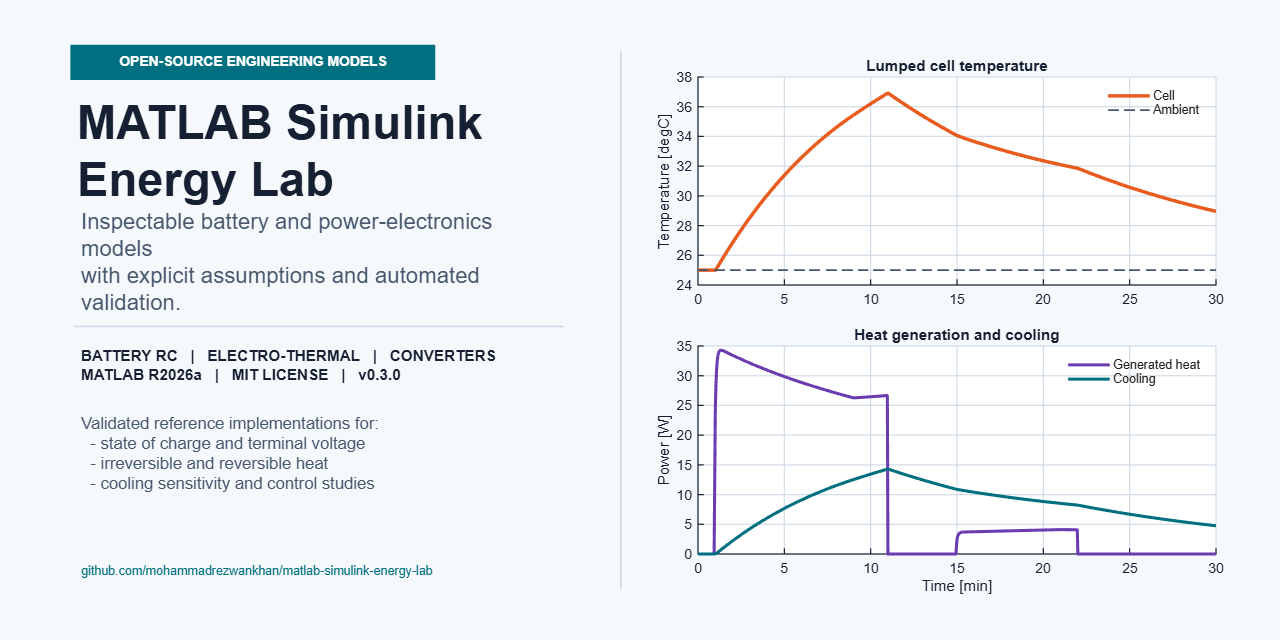
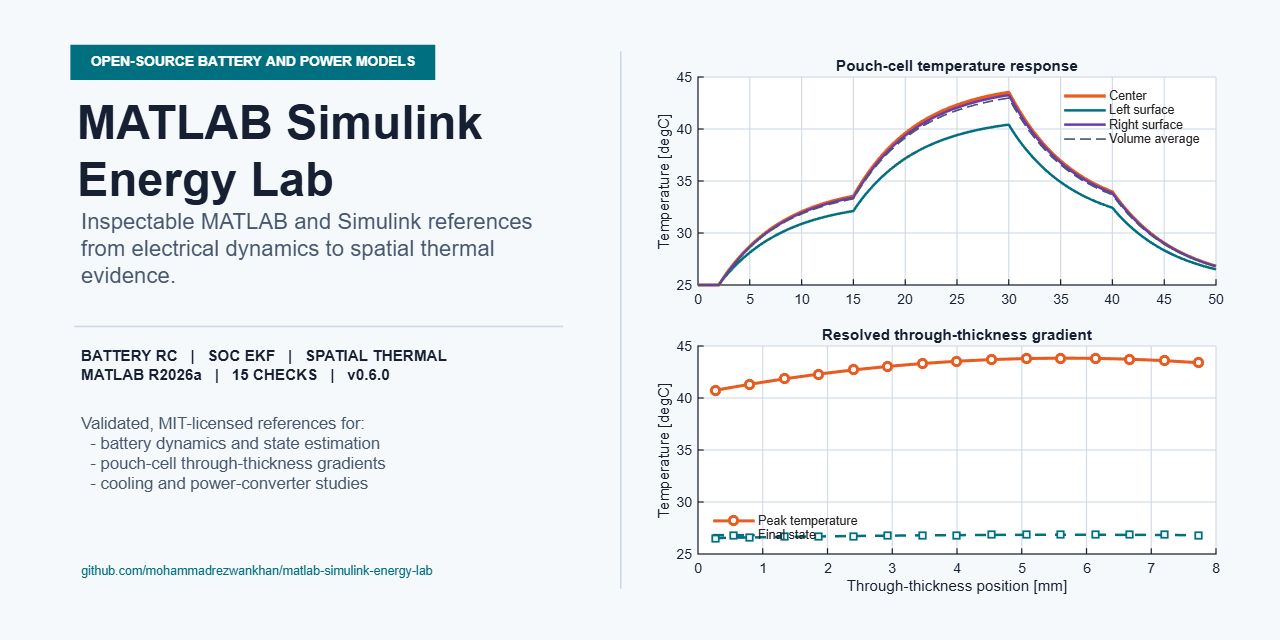
Refresh social preview for v0.6.0

diff --git a/assets/generate_social_preview.m b/assets/generate_social_preview.m
@@ -1,18 +1,18 @@
 %% Generate Repository Social Preview
-% Builds a 1280-by-640 social card from the validated electro-thermal model.
+% Builds a 1280-by-640 social card from the validated pouch-cell model.
 
 generate_preview();
 
 function generate_preview()
 repoRoot = fileparts(fileparts(mfilename('fullpath')));
-thermalModelDir = fullfile( ...
-    repoRoot, 'examples', 'battery-thermal-model');
-addpath(thermalModelDir);
-pathCleanup = onCleanup(@() rmpath(thermalModelDir));
+pouchModelDir = fullfile( ...
+    repoRoot, 'examples', 'pouch-cell-thermal-gradient');
+addpath(pouchModelDir);
+pathCleanup = onCleanup(@() rmpath(pouchModelDir));
 
-parameters = battery_thermal_default_parameters();
-profile = battery_thermal_default_profile();
-result = simulate_battery_thermal_model(profile, parameters, 1);
+parameters = pouch_cell_thermal_default_parameters();
+profile = pouch_cell_thermal_default_profile();
+result = simulate_pouch_cell_thermal_model(profile, parameters, 0.5);
 
 backgroundColor = [0.965, 0.976, 0.988];
 navyColor = [0.090, 0.125, 0.200];
@@ -33,7 +33,7 @@ figureHandle = figure( ...
 figureCleanup = onCleanup(@() close(figureHandle));
 
 annotation(figureHandle, 'textbox', [0.055, 0.875, 0.285, 0.055], ...
-    'String', 'OPEN-SOURCE ENGINEERING MODELS', ...
+    'String', 'OPEN-SOURCE BATTERY AND POWER MODELS', ...
     'FontName', 'Arial', ...
     'FontSize', 10, ...
     'FontWeight', 'bold', ...
@@ -57,8 +57,8 @@ annotation(figureHandle, 'textbox', [0.055, 0.700, 0.410, 0.155], ...
 
 annotation(figureHandle, 'textbox', [0.058, 0.550, 0.390, 0.130], ...
     'String', sprintf([ ...
-        'Inspectable battery and power-electronics models\n' ...
-        'with explicit assumptions and automated validation.']), ...
+        'Inspectable MATLAB and Simulink references\n' ...
+        'from electrical dynamics to spatial thermal evidence.']), ...
     'FontName', 'Arial', ...
     'FontSize', 16, ...
     'Color', mutedColor, ...
@@ -72,8 +72,8 @@ annotation(figureHandle, 'line', [0.058, 0.440], [0.490, 0.490], ...
 
 annotation(figureHandle, 'textbox', [0.058, 0.365, 0.390, 0.100], ...
     'String', sprintf([ ...
-        'BATTERY RC   |   ELECTRO-THERMAL   |   CONVERTERS\n' ...
-        'MATLAB R2026a   |   MIT LICENSE   |   v0.3.0']), ...
+        'BATTERY RC   |   SOC EKF   |   SPATIAL THERMAL\n' ...
+        'MATLAB R2026a   |   15 CHECKS   |   v0.6.0']), ...
     'FontName', 'Arial', ...
     'FontSize', 11, ...
     'FontWeight', 'bold', ...
@@ -84,10 +84,10 @@ annotation(figureHandle, 'textbox', [0.058, 0.365, 0.390, 0.100], ...
 
 annotation(figureHandle, 'textbox', [0.058, 0.195, 0.370, 0.165], ...
     'String', sprintf([ ...
-        'Validated reference implementations for:\n' ...
-        '  - state of charge and terminal voltage\n' ...
-        '  - irreversible and reversible heat\n' ...
-        '  - cooling sensitivity and control studies']), ...
+        'Validated, MIT-licensed references for:\n' ...
+        '  - battery dynamics and state estimation\n' ...
+        '  - pouch-cell through-thickness gradients\n' ...
+        '  - cooling and power-converter studies']), ...
     'FontName', 'Arial', ...
     'FontSize', 12, ...
     'Color', mutedColor, ...
@@ -112,45 +112,58 @@ time_min = result.time_s / 60;
 
 temperatureAxes = axes(figureHandle, ...
     'Position', [0.545, 0.555, 0.405, 0.325]);
-plot(temperatureAxes, time_min, result.cell_temp_C, ...
+plot(temperatureAxes, time_min, result.center_temperature_C, ...
     'Color', orangeColor, ...
-    'LineWidth', 2.5);
+    'LineWidth', 2.3);
 hold(temperatureAxes, 'on');
-plot(temperatureAxes, time_min, ...
-    parameters.ambient_temp_C * ones(size(time_min)), ...
+plot(temperatureAxes, time_min, result.left_surface_temperature_C, ...
+    'Color', tealColor, ...
+    'LineWidth', 1.8);
+plot(temperatureAxes, time_min, result.right_surface_temperature_C, ...
+    'Color', purpleColor, ...
+    'LineWidth', 1.8);
+plot(temperatureAxes, time_min, result.volume_average_temperature_C, ...
     '--', ...
     'Color', mutedColor, ...
     'LineWidth', 1.2);
 hold(temperatureAxes, 'off');
 configure_axes(temperatureAxes, navyColor, gridColor);
-xlim(temperatureAxes, [0, 30]);
+xlim(temperatureAxes, [0, 50]);
 ylabel(temperatureAxes, 'Temperature [degC]');
-title(temperatureAxes, 'Lumped cell temperature', ...
+title(temperatureAxes, 'Pouch-cell temperature response', ...
     'Color', navyColor, ...
     'FontWeight', 'bold');
-legend(temperatureAxes, {'Cell', 'Ambient'}, ...
+legend(temperatureAxes, {'Center', 'Left surface', ...
+    'Right surface', 'Volume average'}, ...
     'Location', 'northeast', ...
     'Box', 'off');
 
-heatAxes = axes(figureHandle, ...
+profileAxes = axes(figureHandle, ...
     'Position', [0.545, 0.135, 0.405, 0.325]);
-plot(heatAxes, time_min, result.total_heat_generation_W, ...
-    'Color', purpleColor, ...
+peakTimeIndex = find(result.time_s == result.peak_time_s, 1);
+position_mm = 1000 * result.node_position_m;
+plot(profileAxes, position_mm, ...
+    result.node_temperature_C(peakTimeIndex, :), ...
+    'o-', ...
+    'Color', orangeColor, ...
+    'MarkerFaceColor', backgroundColor, ...
     'LineWidth', 2.2);
-hold(heatAxes, 'on');
-plot(heatAxes, time_min, result.cooling_power_W, ...
+hold(profileAxes, 'on');
+plot(profileAxes, position_mm, ...
+    result.node_temperature_C(end, :), ...
+    's--', ...
     'Color', tealColor, ...
-    'LineWidth', 2.2);
-hold(heatAxes, 'off');
-configure_axes(heatAxes, navyColor, gridColor);
-xlim(heatAxes, [0, 30]);
-xlabel(heatAxes, 'Time [min]');
-ylabel(heatAxes, 'Power [W]');
-title(heatAxes, 'Heat generation and cooling', ...
+    'MarkerFaceColor', backgroundColor, ...
+    'LineWidth', 1.8);
+hold(profileAxes, 'off');
+configure_axes(profileAxes, navyColor, gridColor);
+xlabel(profileAxes, 'Through-thickness position [mm]');
+ylabel(profileAxes, 'Temperature [degC]');
+title(profileAxes, 'Resolved through-thickness gradient', ...
     'Color', navyColor, ...
     'FontWeight', 'bold');
-legend(heatAxes, {'Generated heat', 'Cooling'}, ...
-    'Location', 'northeast', ...
+legend(profileAxes, {'Peak temperature', 'Final state'}, ...
+    'Location', 'southwest', ...
     'Box', 'off');
 
 outputPath = fullfile(repoRoot, 'assets', 'social-preview.png');

diff --git a/README.md b/README.md
@@ -10,7 +10,7 @@
 [![GitHub stars](https://img.shields.io/github/stars/mohammadrezwankhan/matlab-simulink-energy-lab?style=social)](https://github.com/mohammadrezwankhan/matlab-simulink-energy-lab)
 [![Open in MATLAB Online](https://img.shields.io/badge/open_in-MATLAB_Online-e86e25.svg)](https://matlab.mathworks.com/open/github/v1?repo=mohammadrezwankhan/matlab-simulink-energy-lab)
 
-![MATLAB Simulink Energy Lab preview showing validated cell-temperature, heat-generation, and cooling traces](assets/social-preview.png)
+![MATLAB Simulink Energy Lab v0.6.0 preview showing validated pouch-cell temperature response and through-thickness thermal gradients](assets/social-preview.png)
 
 > **See the equations become waveforms—and inspect every assumption in between.**
 